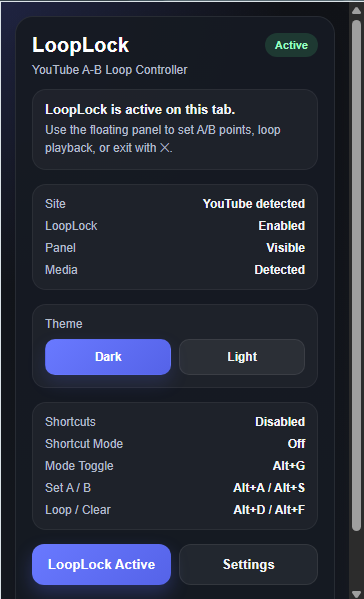
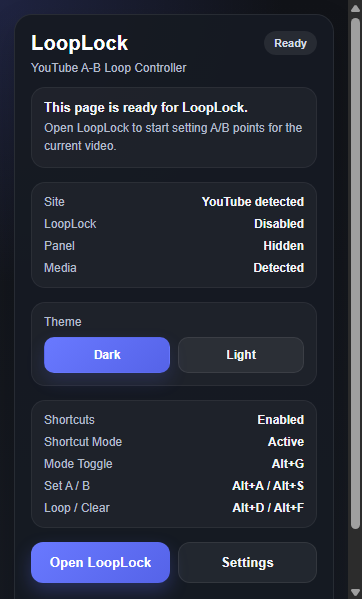
docs: refine demo and screenshots flow in README

diff --git a/README.md b/README.md
@@ -71,27 +71,41 @@ This project is currently in a **YouTube-first MVP Alpha** stage.
 
 ## Demo / Screenshots
 
-### Popup Main View
-The popup acts as the official entry point for the LoopLock session.
+LoopLock’s current MVP flow is intentionally simple:
+
+1. Open the popup on a YouTube watch page
+2. Start the session with **Open LoopLock**
+3. Control A/B looping through the floating panel
+4. Optionally enable and customize keyboard shortcuts in Settings
+
+### 1. Popup Entry
+
+The popup is the official entry point for LoopLock.  
+It shows current page support, LoopLock status, panel visibility, media detection, theme controls, and shortcut availability.
 
 ![Popup Main View](docs/demo-popup-main.png)
 
-### Floating Panel
-LoopLock’s floating panel lets users set A/B points, toggle loop playback, clear the current range, and keep the panel visible while watching.
+### 2. Floating Panel Control
+
+Once the session is opened, the floating panel becomes the main control surface for playback looping.  
+Users can set A/B points, toggle loop playback, clear the current range, collapse the panel, or close the entire session with **✕**.
 
 ![Floating Panel](docs/demo-floating-panel.png)
 
-### Runtime Shortcut Sync
-The popup surfaces current shortcut status, runtime sync state, and shortcut mode visibility for the active tab.
+### 3. Shortcut Settings
+
+Keyboard shortcuts are optional and intentionally conservative in the current MVP.  
+Users can enable them manually, customize mappings, and review the shortcut layout from popup settings.
 
 ![Shortcut Runtime Sync](docs/demo-shortcut-runtime-sync.png)
 
-### Shortcut Conflict Feedback
-Conflicting shortcut mappings are highlighted inline with direct field-level warnings for better clarity.
+### 4. Conflict Feedback
+
+If two actions are assigned the same shortcut, LoopLock surfaces the problem directly in settings with inline warnings and field-level conflict highlighting.
 
 ![Shortcut Conflict Warning](docs/demo-popup-settings-conflict.png)
 
-Below are a few snapshots from the current MVP build, covering the popup entry flow, floating panel controls, runtime shortcut visibility, and inline shortcut conflict feedback.
+These screenshots reflect the current YouTube-first MVP build and focus on the project’s main interaction flow rather than future expansion areas.
 
 ---
 
